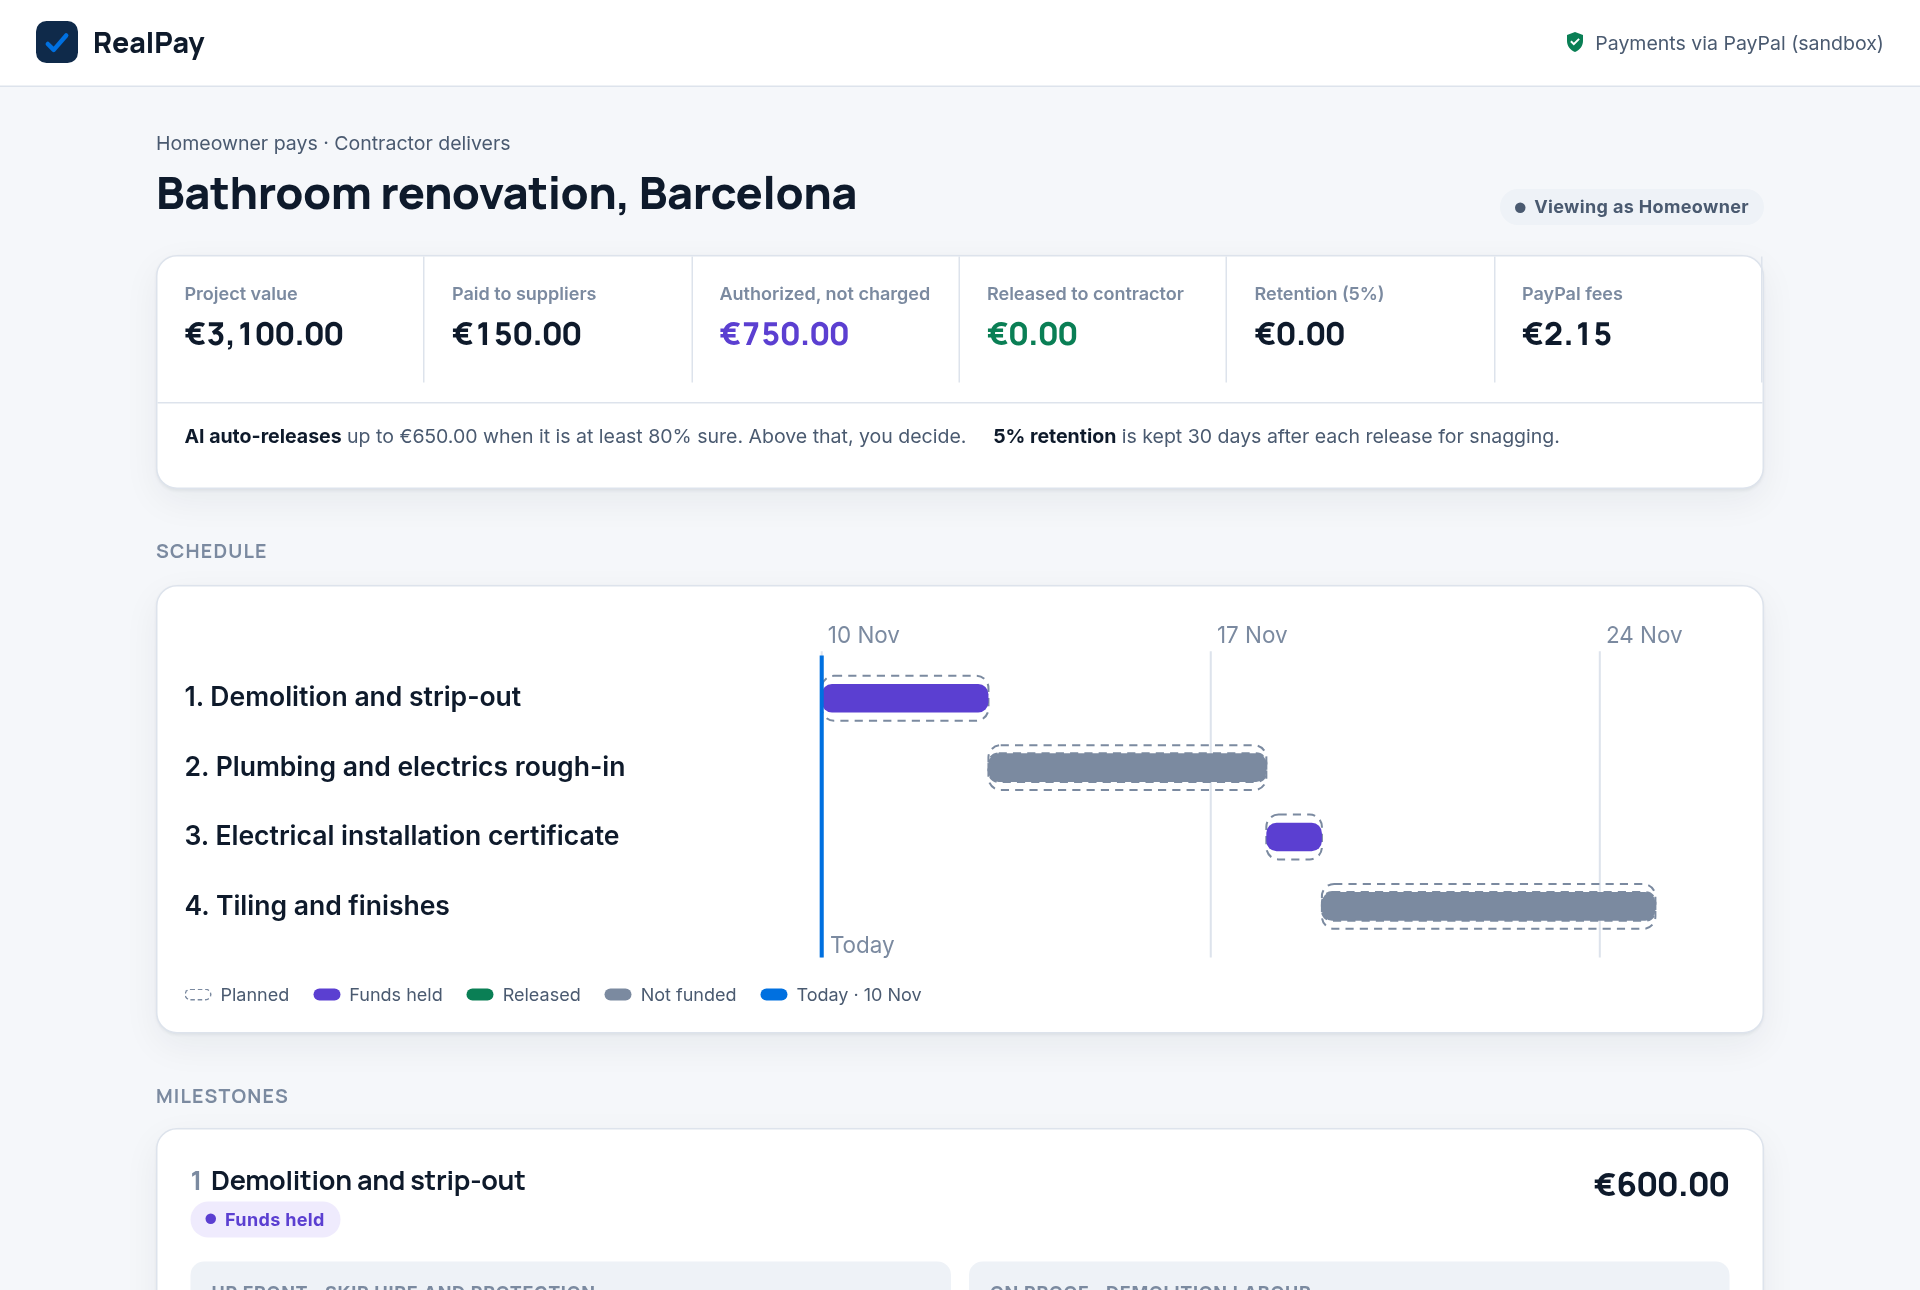
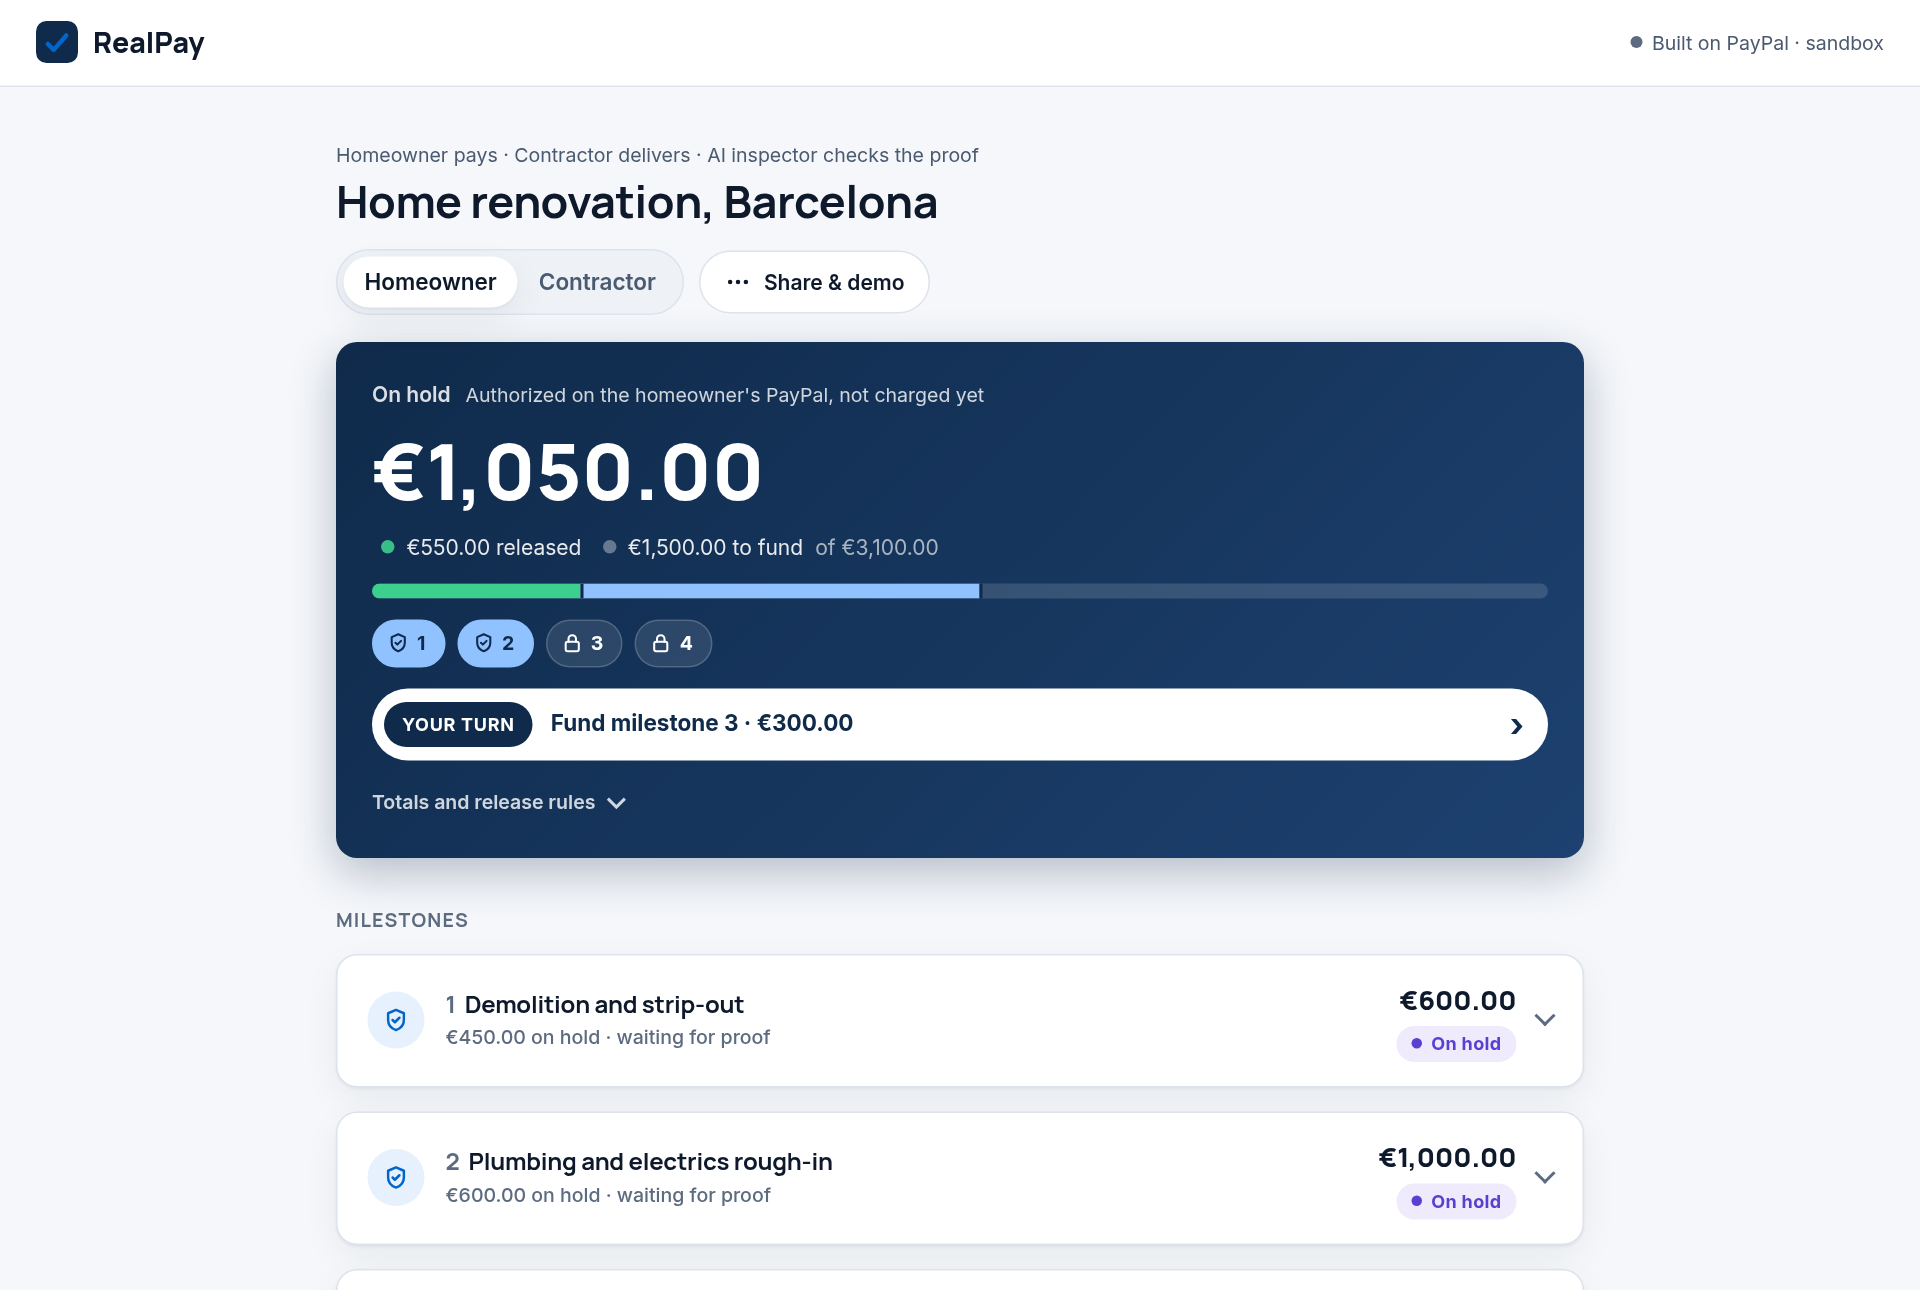
Add a judges' section to the README and refresh the screenshot
The README now opens with what the project is, who does what, the rule
for paying without a person and where to look in the code. It also says
plainly that RealPay is not PayPal Buyer Protection, documents the
per-day caps of a public instance and what happens when a hold expires.

The screenshot shows the current page. The licence names the entrant.

diff --git a/README.md b/README.md
@@ -9,7 +9,7 @@ proof against the milestone's checklist, and only then does PayPal capture
 and pay out. Anything the AI is unsure about goes to a person, never
 straight to the contractor.
 
-[![Payments via PayPal (sandbox)](https://img.shields.io/badge/payments-PayPal%20sandbox-003087)](https://developer.paypal.com/tools/sandbox/)
+[![Built on PayPal (sandbox)](https://img.shields.io/badge/payments-PayPal%20sandbox-003087)](https://developer.paypal.com/tools/sandbox/)
 [![License: MIT](https://img.shields.io/badge/license-MIT-blue)](LICENSE)
 
 > Built for the PayPal AI Hackathon. RealPay is an independent project and
@@ -19,11 +19,34 @@ straight to the contractor.
 
 ![A project page: the money summary and the schedule, with two milestones funded and their labour on hold, authorized on the homeowner's PayPal](docs/screenshot.png)
 
+## For judges
+
+- **What it is.** Milestone payments for a job: the money for each stage
+  is put on hold with PayPal and only charged when proof of the work
+  passes.
+- **Who does what.** PayPal moves the money (Orders v2 authorize and
+  capture, Payouts, Disputes, webhooks). The AI inspects the proof and
+  returns a verdict with reasons. Plain, tested code decides: the AI never
+  calls PayPal.
+- **The rule for paying without a person.** Checklist met, confidence of
+  0.8 or more, no flag raised, no dispute open and at most €650 on hold.
+  Anything else waits for the homeowner.
+- **Try it in two minutes.** Follow [Try it locally](#try-it-locally)
+  below. Without an AI key the app still runs: every proof goes to the
+  homeowner for review.
+- **Where to look.** The release policy is
+  [`server/node/src/domain`](server/node/src/domain), the AI inspector
+  [`server/node/src/verification`](server/node/src/verification), the
+  PayPal calls [`server/node/src/paypal`](server/node/src/paypal) and
+  [`customApiEndpoints`](server/node/src/customApiEndpoints). The API is in
+  [`docs/openapi.yaml`](docs/openapi.yaml) and the threat model in
+  [SECURITY.md](SECURITY.md).
+
 ## Try it locally
 
 ```bash
-# in a clone of this repository
-cp .env.sample .env        # see "Run it yourself" for what to fill in
+git clone https://github.com/mktaisales-glitch/realpay.git && cd realpay
+cp .env.sample .env        # see "Run it locally" for what to fill in
 cd server/node && npm install && npm start
 ```
 
@@ -45,22 +68,26 @@ Open <http://localhost:8080>, pick **Home renovation**, then:
 
 ## Why
 
-A contractor took €3,000 upfront for a renovation, started demolition and
-never came back. Paying everything upfront protects the contractor. Paying
-everything at the end protects the client. Neither works.
+A homeowner paid a contractor €2,975 in cash, upfront, to fix a shower. A
+day later there was a pipe sticking out of the wall, a cracked shower tray
+and nobody answering the phone. Paying everything upfront protects the
+contractor. Paying everything at the end protects the client. Neither
+works.
 
 Banks solved this long ago for construction loans: the money is released
 in stages, each one after an inspector signs off the work. RealPay brings
-that discipline to a €3,000 home renovation, with an AI inspector and a PayPal
-authorization on the money.
+that discipline to a home renovation of a few thousand euros, with an AI
+inspector and a PayPal authorization on the money.
+
+RealPay is not PayPal Buyer Protection and does not replace it.
 
 ### Why this is not another escrow
 
-|                      | Classic escrow                       | RealPay                                                       |
-| -------------------- | ------------------------------------ | ------------------------------------------------------------- |
-| Where the money sits | With a third party that holds it     | On the homeowner's PayPal, authorized but not charged         |
-| What releases it     | Both sides agree, or a manual review | Proof checked against a written checklist, a person on doubt  |
-| Materials            | Usually locked with everything else  | Paid upfront to the supplier, so the work can start           |
+|                      | Classic escrow                       | RealPay                                                        |
+| -------------------- | ------------------------------------ | -------------------------------------------------------------- |
+| Where the money sits | With a third party that holds it     | On the homeowner's PayPal, authorized but not charged          |
+| What releases it     | Both sides agree, or a manual review | Proof checked against a written checklist, a person on doubt   |
+| Materials            | Usually locked with everything else  | Paid upfront to the supplier, so the work can start            |
 | If the work stops    | A dispute, and the money waits       | Cancel the milestone: the labour hold is voided, never charged |
 
 ## How the money moves
@@ -127,11 +154,14 @@ Proof goes through three layers, cheapest first.
    caps protect the shared quota: a daily cap for the whole server
    (`AI_DAILY_CAP`) and one per project (`AI_CALLS_PER_PROJECT_PER_DAY`,
    10 by default). If a cap is reached or every provider is down, the proof
-   goes to a person.
+   goes to a person. A public instance also caps new projects
+   (`PROJECTS_PER_DAY`) and test-card payments
+   (`DEMO_CARD_FUNDINGS_PER_DAY`) per day.
 3. **Release policy.** A pure, fully tested function decides: release
    only when the checklist is met, confidence is at least the template's
    minimum (0.8), no flag was raised, no dispute is open, and the amount is
-   under the auto-release cap. Everything else is `review` or `reject`.
+   within the auto-release cap (€650 in the renovation template).
+   Everything else is `review` or `reject`.
 
 The AI never moves money on its own above the cap. Every decision, with
 its reason, is written to an append-only, tamper-evident (hash-chained)
@@ -166,8 +196,8 @@ Adding a niche means adding a file. The engine does not change.
 | Supplier payout fails              | Retry with the same batch id, no double payment     |
 | PayPal does not answer a payout    | Marked unconfirmed; retrying resolves it, same id   |
 | Capture left pending by PayPal     | Nothing paid out until PayPal confirms the capture  |
-| Authorization about to expire      | Homeowner reauthorizes the part on hold             |
-| Authorization expired              | Nothing captured; cancel and fund again             |
+| Hold about to expire               | Homeowner renews the hold (PayPal wallet only)      |
+| Hold expired                       | Nothing captured; cancel and fund again             |
 | Project cancelled mid-way          | Unreleased holds are voided, never charged          |
 | One project floods the AI          | Per-project daily cap, then manual review           |
 | Dispute opened                     | Releases frozen, evidence pack submitted to PayPal  |
@@ -228,18 +258,24 @@ it is compared in constant time.
 
 ## Run it locally
 
-You need Node.js 20 or newer and a free
-[PayPal developer](https://developer.paypal.com) account.
+You need Node.js 20 or newer (24 is what `.nvmrc` and the Docker image
+use) and a free [PayPal developer](https://developer.paypal.com) account.
 
-1. In the developer dashboard, create a **sandbox** REST app and two
-   sandbox business accounts (supplier and contractor).
+1. In the developer dashboard, create a **sandbox** REST app and the
+   sandbox accounts that will receive the payouts (supplier and
+   contractor; one account can play both). The sandbox business account
+   behind the REST app pays them, so it needs Payouts enabled and a EUR
+   balance. The default sandbox accounts of a new developer account
+   already have both.
 2. Copy the settings file and fill it in:
 
    ```bash
    cp .env.sample .env
    ```
 
-   AI keys are optional. Without them every proof goes to manual review.
+   `SUPPLIER_EMAIL` and `CONTRACTOR_EMAIL` are required: use the emails
+   of those sandbox accounts. AI keys are optional. Without them every
+   proof goes to manual review.
    [Gemini](https://aistudio.google.com) and
    [OpenRouter](https://openrouter.ai) both have free tiers.
 
@@ -286,12 +322,12 @@ the payment" until `PAYMENT.CAPTURE.COMPLETED` arrives; `DENIED` stops it.
 Next to PayPal's own statuses (`SUCCESS`, `PENDING`, `UNCLAIMED`…), RealPay
 keeps four of its own, because a failed request is not a failed payout:
 
-| State            | Meaning                                         | Retry |
-| ---------------- | ----------------------------------------------- | ----- |
-| `FAILED`         | PayPal refused it (4xx): nothing was sent       | Yes   |
-| `UNKNOWN`        | Timeout or 5xx: it may exist, same batch id     | Yes   |
-| `AWAITING_FUNDS` | The capture is pending at PayPal                | No    |
-| `BLOCKED`        | PayPal denied the pending capture               | No    |
+| State            | Meaning                                     | Retry |
+| ---------------- | ------------------------------------------- | ----- |
+| `FAILED`         | PayPal refused it (4xx): nothing was sent   | Yes   |
+| `UNKNOWN`        | Timeout or 5xx: it may exist, same batch id | Yes   |
+| `AWAITING_FUNDS` | The capture is pending at PayPal            | No    |
+| `BLOCKED`        | PayPal denied the pending capture           | No    |
 
 Retries reuse the `sender_batch_id`, which PayPal deduplicates, so a retry
 never pays twice. A retention refund is refused while its payout is
